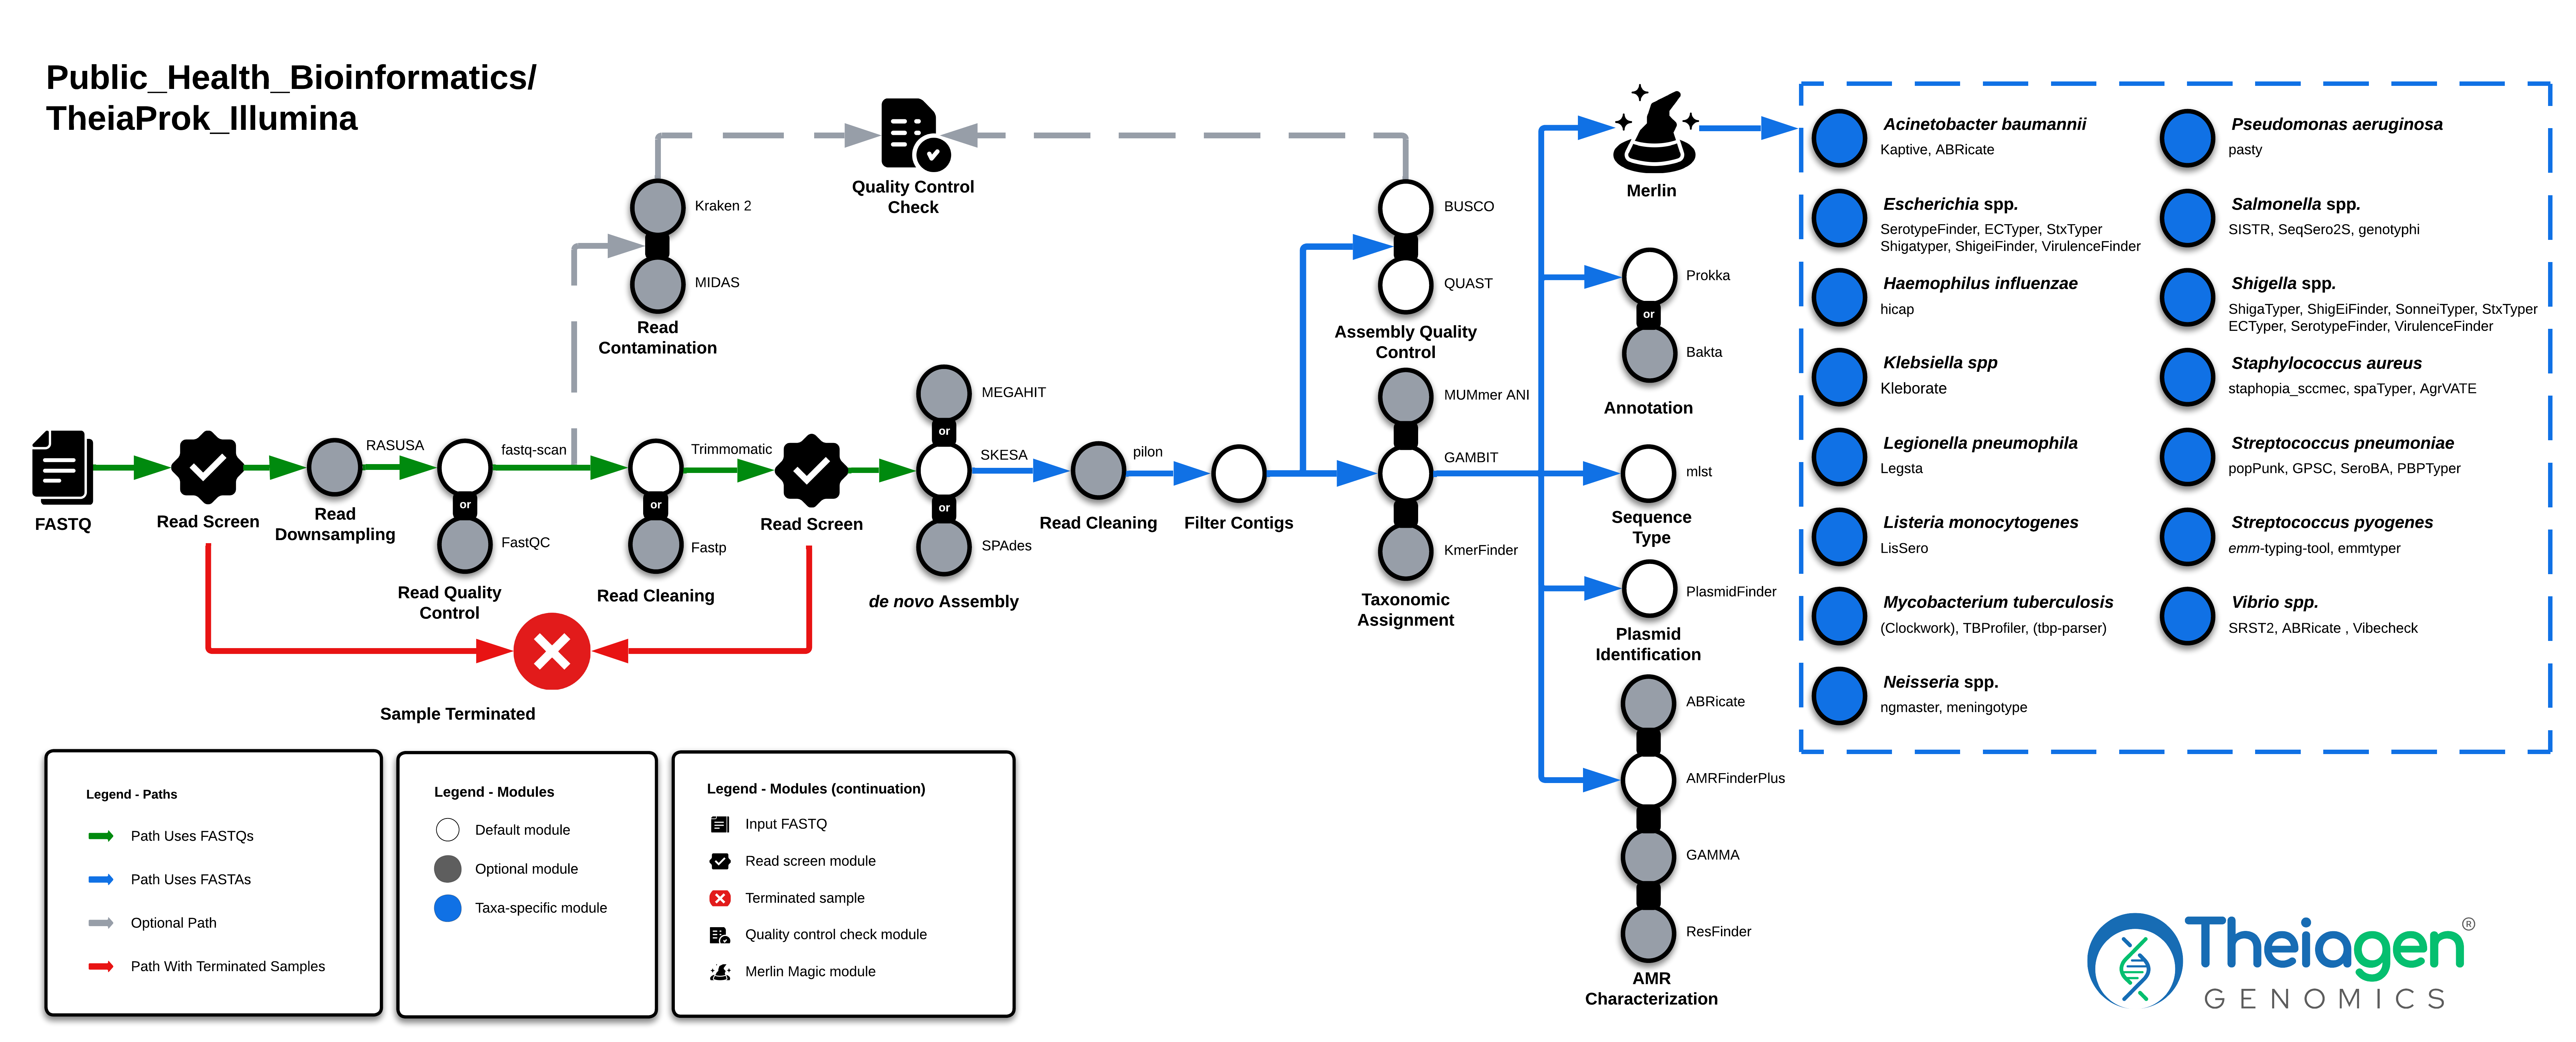
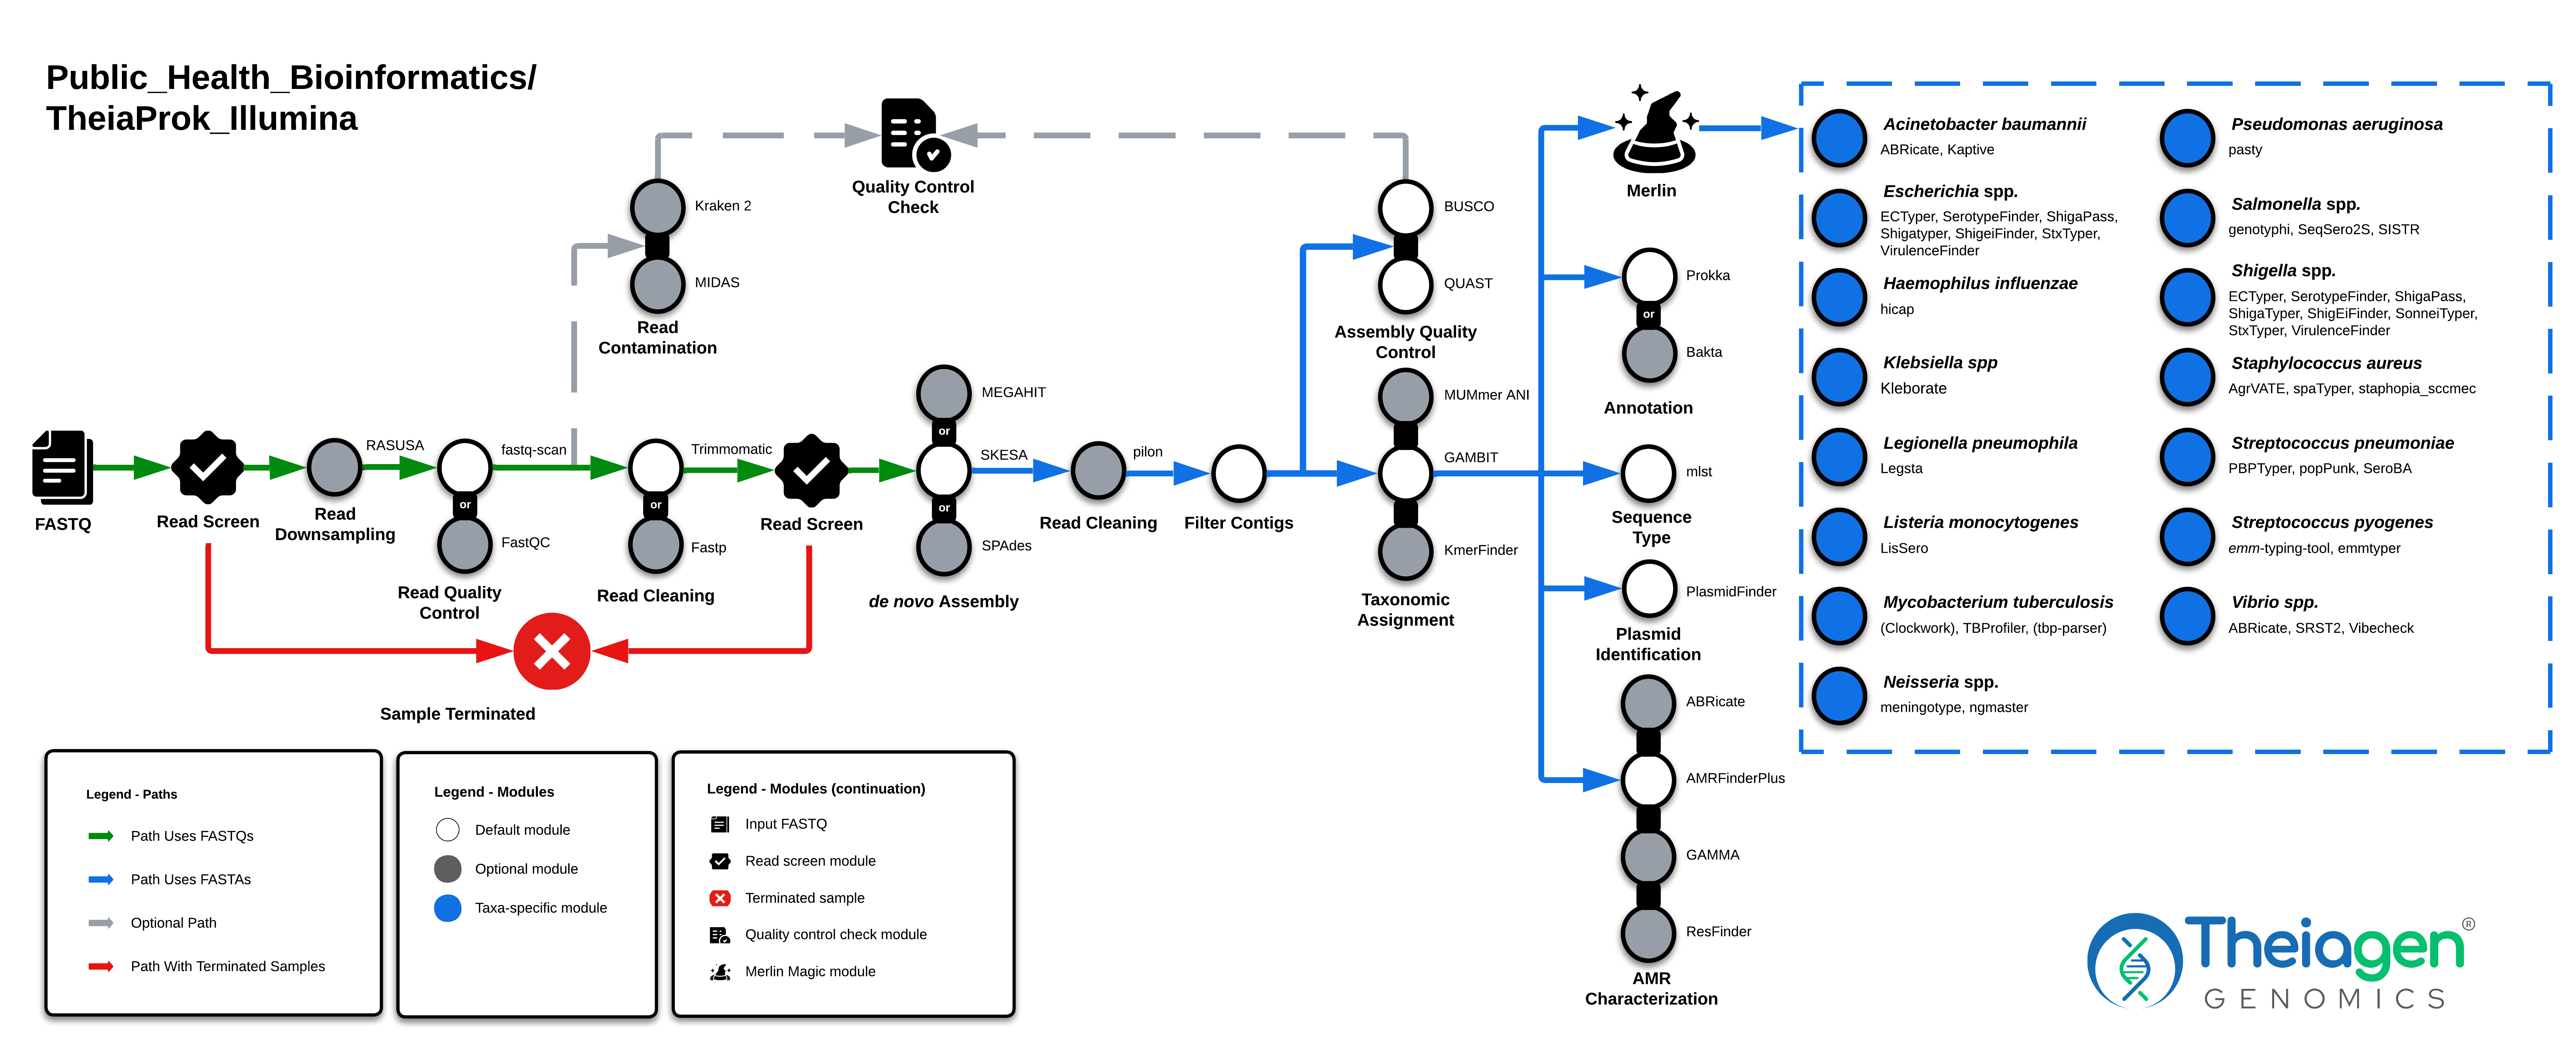
[TheiaProk] adding ShigaPass (#1050)
* make shigapass task

* add to all theiaprok workflows

* maybe consider improting the task

* oopsies forgot a }

* fix glob path

* update docs

* try glob again

* update figures

* fix cuts

* remove predicted_serotype_flexneri output

* remove from workflows

* update io

* fixing these horrific issues

---------

Pull request: [TheiaProk] adding ShigaPass
<!--
Thank you for contributing to Theiagen's Public Health Bioinformatics repository! 

Please ensure your contributions are formatted following our style guide, which can be found here: <https://theiagen.github.io/public_health_bioinformatics/latest/contributing/code_contribution/>.

As you create the PR, please provide any necessary information as suggested in the comments that will help us test your PR.
-->

<!-- Indicate the issue number if applicable; otherwise, delete -->

🗑️ This dev branch should <NOT> be deleted after merging to main.

## :brain: Summary
<!-- Please summarize what this PR does -->

This PR adds ShigaPass to TheiaProk.


## :zap: Impacted Workflows/Tasks

### Workflows
Δ `merlin_magic`

Δ `theiaprok_fasta`

Δ `theiaprok_illumina_pe`

Δ `theiaprok_illumina_se`

Δ `theiaprok_ont`




### Tasks
\+ `shigapass`




This PR may lead to different results in pre-existing outputs: **No**

This PR uses an element that could cause duplicate runs to have different results: **No**
<!-- This may be due to using a live database or stochastic data processing. If yes, please describe. -->

## :hammer_and_wrench: Changes
<!-- Describe your changes. -->

Added ShigaPass

### :gear: Algorithm
[…]

diff --git a/docs/common_text/shigapass_task.md b/docs/common_text/shigapass_task.md
@@ -1,0 +1,22 @@
+??? task "`ShigaPass`: _Shigella_/EIEC differentiation and serotyping"
+    ShigaPass predicts _Shigella_ spp. serotypes from assembled whole genomes, and can differentiate between _Shigella_, enteroinvasive _E. coli_ (EIEC), and non-_Shigella_/EIEC genomes.
+
+    ShigaPass provides enhanced accuracy compared to other tools (e.g., ShigaTyper, and ShigeiFinder) and is recommended by the National Reference Center for _E. coli_, _Shigella_, and _Salmonella_ in France. 
+
+    !!! warning "==ShigaPass works best with assemblies generated with SPAdes=="
+        ShigaPass operates optimally using assemblies generated with SPAdes. Other assemblers, like SKESA (TheiaProk_Illumina's default), can lead to incorrect or incomplete results due to missing detetion of critical genes like _ipaH_. 
+
+        Please be aware of this potential limitation in accuracy when interpreting your results.
+
+    !!! tip "Assembler recommendations for ShigaPass"
+        - **TheiaProk_Illumina_PE** & **TheiaProk_Illumina_SE**: We strongly recommend setting the `digger_denovo.assembler` input parameter to `"spades"` to ensure the best results from ShigaPass.
+        - **TheiaProk_ONT**: By default, ONT assemblies are generated with `flye`. While these assemblies can be used successfully with ShigaPass, the results may be less accurate than if the data were assembled with SPAdes. Since SPAdes is not an option for ONT data, please be aware of this potential limitation in accuracy when interpreting your results.
+        - **TheiaProk_FASTA**: Results may be less accurate if the data was not assembled with SPAdes. You may want to consider re-assembling your data with SPAdes for optimal performance of ShigaPass if possible. For publicly available data, you can check the original publication or SRA metadata to see if SPAdes was used for assembly.
+    
+    !!! techdetails "ShigaPass Technical Details"
+        |  | Links |
+        | --- | --- |
+        | Task | [task_shigapass.wdl](https://github.com/theiagen/public_health_bioinformatics/blob/main/tasks/species_typing/escherichia_shigella/task_shigapass.wdl) |
+        | Software Source Code | [ShigaPass on GitHub](https://github.com/imanyass/ShigaPass) |
+        | Software Documentation | [ShigaPass on GitHub](https://github.com/imanyass/ShigaPass) |
+        | Original Publication(s) | [ShigaPass: an _in silico_ tool predicting _Shigella_ serotypes from whole-genome sequencing assemblies](https://doi.org/10.1099/mgen.0.000961) |

diff --git a/docs/workflows/genomic_characterization/theiaprok.md b/docs/workflows/genomic_characterization/theiaprok.md
@@ -212,7 +212,9 @@ All input reads are processed through "[core tasks](#core-tasks)" in the TheiaPr
 {{ include_md("common_text/virulencefinder_task.md", indent=4) }}
 
     !!! tip ""
-        `ShigaTyper` and `ShigEiFinder` are intended for differentiation and serotype prediction for any *Shigella* species and Enteroinvasive *Escherichia coli* (EIEC). You can read about differences between these [here](https://www.ncbi.nlm.nih.gov/pmc/articles/PMC517479/) and [here](https://www.microbiologyresearch.org/content/journal/micro/10.1099/00221287-144-9-2667). ShigEiFinder can be run using either the assembly (default) or reads. These tasks will report if the samples are neither *Shigella* nor EIEC.
+        `ShigaPass`, `ShigaTyper`, and `ShigEiFinder` are intended for differentiation and serotype prediction for any *Shigella* species and enteroinvasive *Escherichia coli* (EIEC). You can read about differences between _Shigella_ and EIEC [here](https://www.ncbi.nlm.nih.gov/pmc/articles/PMC517479/) and [here](https://www.microbiologyresearch.org/content/journal/micro/10.1099/00221287-144-9-2667). ShigEiFinder can be run using either the assembly (default) or reads. These tasks will report if the samples are neither *Shigella* nor EIEC.
+
+{{ include_md("common_text/shigapass_task.md", indent=4) }}
 
 {{ include_md("common_text/shigatyper_task.md", indent=4) }}
 